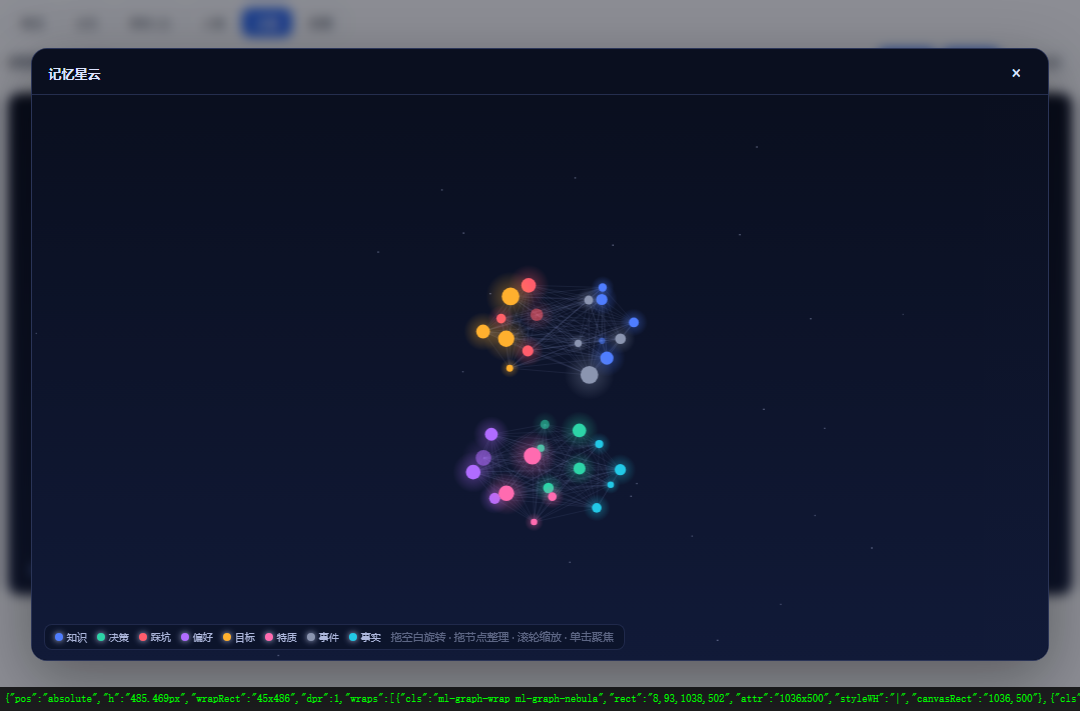
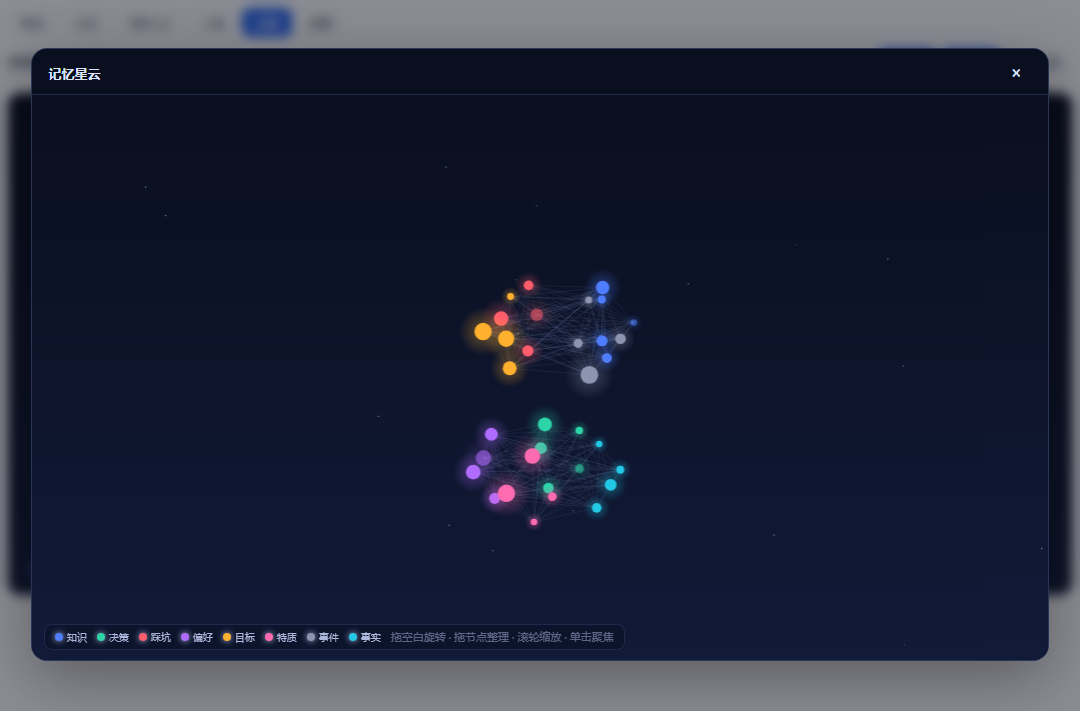
chore: 第三轮发布前复核（0.2.1）——gitignore 补隐私模式、预览截图不入库、files 收窄到运行件、CI 固定 SHA 并加 npm audit、星云截图去掉调试 JSON

diff --git a/tools/preview-entry.jsx b/tools/preview-entry.jsx
@@ -110,7 +110,9 @@ if (location.hash === '#config') {
       const wrap = document.querySelector('.ml-graph-full')
       const diag = document.createElement('pre')
       diag.id = 'diag'
-      diag.style.cssText = 'position:fixed;bottom:0;left:0;z-index:99999;background:#000c;color:#0f0;font-size:11px;margin:0;padding:4px;max-height:40vh;overflow:auto'
+      // 诊断只供 --dump-dom 读（console.log 输出 JSON），截图里不能出现：
+      // display:none 对 dump-dom 不可见地透明，但对 --screenshot 完全隐藏
+      diag.style.cssText = 'display:none'
       if (wrap) {
         const cs = getComputedStyle(wrap)
         const wraps = [...document.querySelectorAll('.ml-graph-wrap')].map((w) => {

diff --git a/CHANGELOG.md b/CHANGELOG.md
@@ -2,6 +2,18 @@
 
 按 [Keep a Changelog](https://keepachangelog.com/zh-CN/1.1.0/) 组织，版本号遵循语义化版本。
 
+## [0.2.1] - 2026-11-02
+
+第三轮发布前复核（仓库与发布卫生），运行时代码零改动。
+
+### 交付
+
+- `.gitignore` 补隐私模式：`.env*` / `*.pem` / `*.key` / `*.db` / `*.sqlite` / `*.wal` / `*.shm`，防止库文件与密钥误提交。
+- `tools/preview-*.png` 不再入库（`npm run preview` 本地再生），文档截图只保留 `docs/screenshots/`；星云截图重新生成，去掉底部残留的调试 JSON。
+- `package.json` 的 `files` 收窄到运行件 + 导入导出 CLI：`src/` 与构建 / 冒烟 / 负向 / 预览工具不再进 npm 包。
+- CI 固定 `actions/checkout` / `actions/setup-node` 到 commit SHA（v4.4.0），新增 `npm audit --omit=dev` 供应链审计步骤。
+- 冒烟新增守卫：发布清单只含运行件与导入导出 CLI、`.gitignore` 覆盖隐私文件模式（237 项）；负向控制对应增加 2 条（18 条；0.2.0 记为 15 条系漏数，实为 16 条）。
+
 ## [0.2.0] - 2026-11-02
 
 「已知未做」清空 + 安全复核第二轮 + GitHub 交付。
@@ -36,7 +48,7 @@
 ### 交付
 
 - 加入 `LICENSE`（MIT）、`.gitignore`、`.gitattributes`（全仓 LF，`.ps1` 走 CRLF）、`SECURITY.md`、`.github/workflows/ci.yml`。
-- CI：`npm ci` → 冒烟（236 项）→ 负向控制（15 条，改坏必须变红）→ `lib/client.js` 与源码一致。
+- CI：`npm ci` → 冒烟（236 项）→ 负向控制（16 条，改坏必须变红）→ `lib/client.js` 与源码一致。
 - 冒烟新增「开源交付件元数据」守卫：LICENSE 无占位符、作者与 `package.json` 一致、仓库地址齐全、README 无 `your-name` 占位、发布清单排除预览产物、lockfile 每条可解析、权限清单不索取凭据 / 外部服务 / 未使用的子进程能力。
 - `npm pack` 体积 698KB → 163KB（预览 bundle 与截图不再进包）。
 - 权限清单 `commands` 由 `node` 改为 `[]`：插件运行时从不启子进程，原来属于过度声明。

diff --git a/README.md b/README.md
@@ -153,13 +153,13 @@ BM25 是字面匹配，「换个说法就召回不到」是结构性死角。两
 ```bash
 npm ci                 # 安装（含 peer：dsh-tools / dsh-llm / cordis）
 npm run build          # esbuild 打包客户端 → lib/client.js（自检语法）
-npm test               # 236 项守卫（含开源交付件元数据检查）
-npm run neg            # 负向控制：逐条改坏守卫，确认对应测试真的会红（15 条）
-npm run preview        # 用假数据渲染 UI 并截图到 tools/preview-*.png（改观感时用）
+npm test               # 237 项守卫（含开源交付件元数据检查）
+npm run neg            # 负向控制：逐条改坏守卫，确认对应测试真的会红（18 条）
+npm run preview        # 用假数据渲染 UI 并截图到 tools/preview-*.png（改观感时用；不入库，文档截图在 docs/screenshots/）
 ```
 
-- CI（`.github/workflows/ci.yml`）：`npm ci` → 冒烟 → 负向控制 → 校验「`lib/client.js` 与源码一致」。
-- 发 npm：`npm publish`（`publishConfig.access` 已是 public，`files` 只含运行所需文件，预览产物与截图已排除）。
+- CI（`.github/workflows/ci.yml`）：`npm ci` → `npm audit`（生产依赖）→ 冒烟 → 负向控制 → 校验「`lib/client.js` 与源码一致」；Actions 固定到 commit SHA。
+- 发 npm：`npm publish`（`publishConfig.access` 已是 public，`files` 只含运行件与导入导出 CLI）。
 
 ```powershell
 pwsh -File deploy.ps1              # 拷贝进 profile + 注册 bundle（DSH_HOME 或 ~/.dsh）
